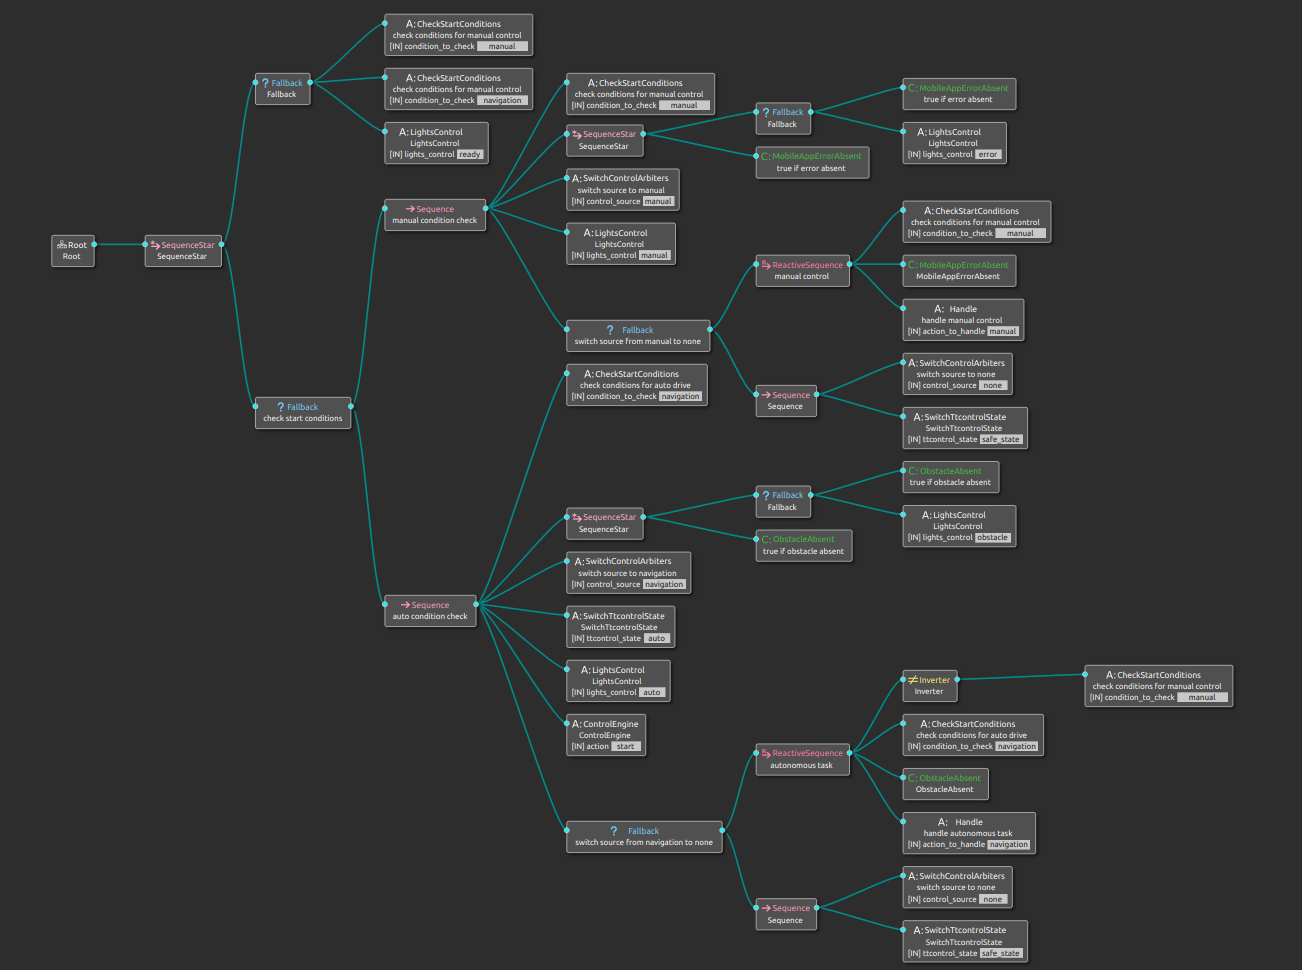
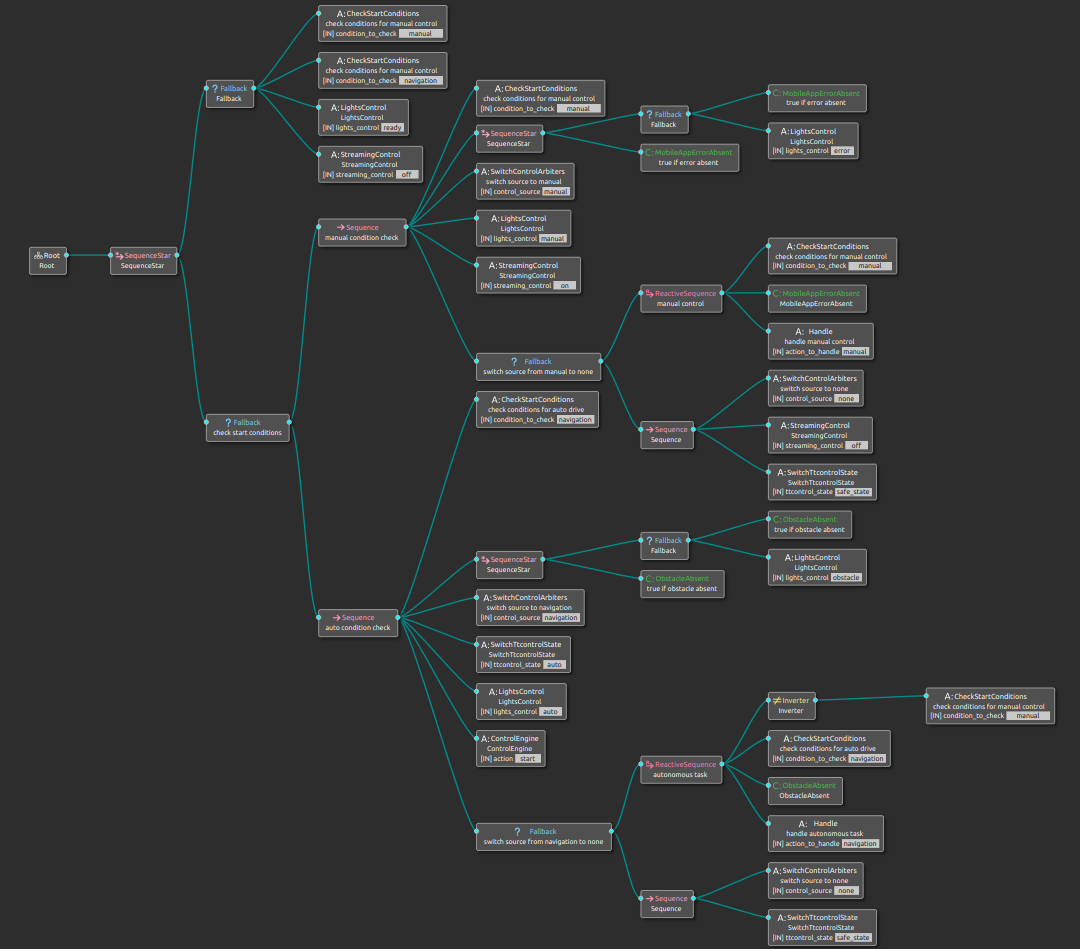
cosmetic changes

diff --git a/src/action/StreamingControl.cpp b/src/action/StreamingControl.cpp
@@ -43,8 +43,8 @@ BT::NodeStatus StreamingControl::tick()
   return BT::NodeStatus::FAILURE;
 }
 
-void StreamingControl::initVideoStreamClients(std::shared_ptr<ros::ServiceClient> hal_video_stream_start_client,
-                                              std::shared_ptr<ros::ServiceClient> hal_video_stream_stop_client)
+void StreamingControl::setVideoStreamClients(std::shared_ptr<ros::ServiceClient> hal_video_stream_start_client,
+                                             std::shared_ptr<ros::ServiceClient> hal_video_stream_stop_client)
 {
   hal_video_stream_start_client_ = hal_video_stream_start_client;
   hal_video_stream_stop_client_ = hal_video_stream_stop_client;

diff --git a/include/agribot_behavior/action/StreamingControl.h b/include/agribot_behavior/action/StreamingControl.h
@@ -26,7 +26,7 @@ public:
   StreamingControl(const std::string& name, const BT::NodeConfiguration& config);
   static BT::PortsList providedPorts();
   BT::NodeStatus tick() override;
-  void initVideoStreamClients(std::shared_ptr<ros::ServiceClient> hal_video_stream_start_client,
-                              std::shared_ptr<ros::ServiceClient> hal_video_stream_stop_client);
+  void setVideoStreamClients(std::shared_ptr<ros::ServiceClient> hal_video_stream_start_client,
+                             std::shared_ptr<ros::ServiceClient> hal_video_stream_stop_client);
 };
 }  // namespace agribot_behavior

diff --git a/src/node/AgribotBehaviorTreeNode.cpp b/src/node/AgribotBehaviorTreeNode.cpp
@@ -83,7 +83,7 @@ void AgribotBehaviorTreeNode::initTreeNodesWithRosDependencies()
     }
     if (auto streaming_control = dynamic_cast<StreamingControl*>(node.get()); streaming_control != nullptr)
     {
-      streaming_control->initVideoStreamClients(hal_video_stream_start_client_, hal_video_stream_stop_client_);
+      streaming_control->setVideoStreamClients(hal_video_stream_start_client_, hal_video_stream_stop_client_);
     }
     if (auto switch_ttcontrol_state = dynamic_cast<SwitchTtcontrolState*>(node.get());
         switch_ttcontrol_state != nullptr)

diff --git a/include/agribot_behavior/generic_ports/StreamingControlPort.h b/include/agribot_behavior/generic_ports/StreamingControlPort.h
@@ -22,7 +22,7 @@ inline bool convertFromString(StringView str)
   }
   else
   {
-    throw RuntimeError("Invalid input from convertFromString for ControlSource");
+    throw RuntimeError("Invalid input from convertFromString for StreamingControl");
   }
 }
 }  // end namespace BT
